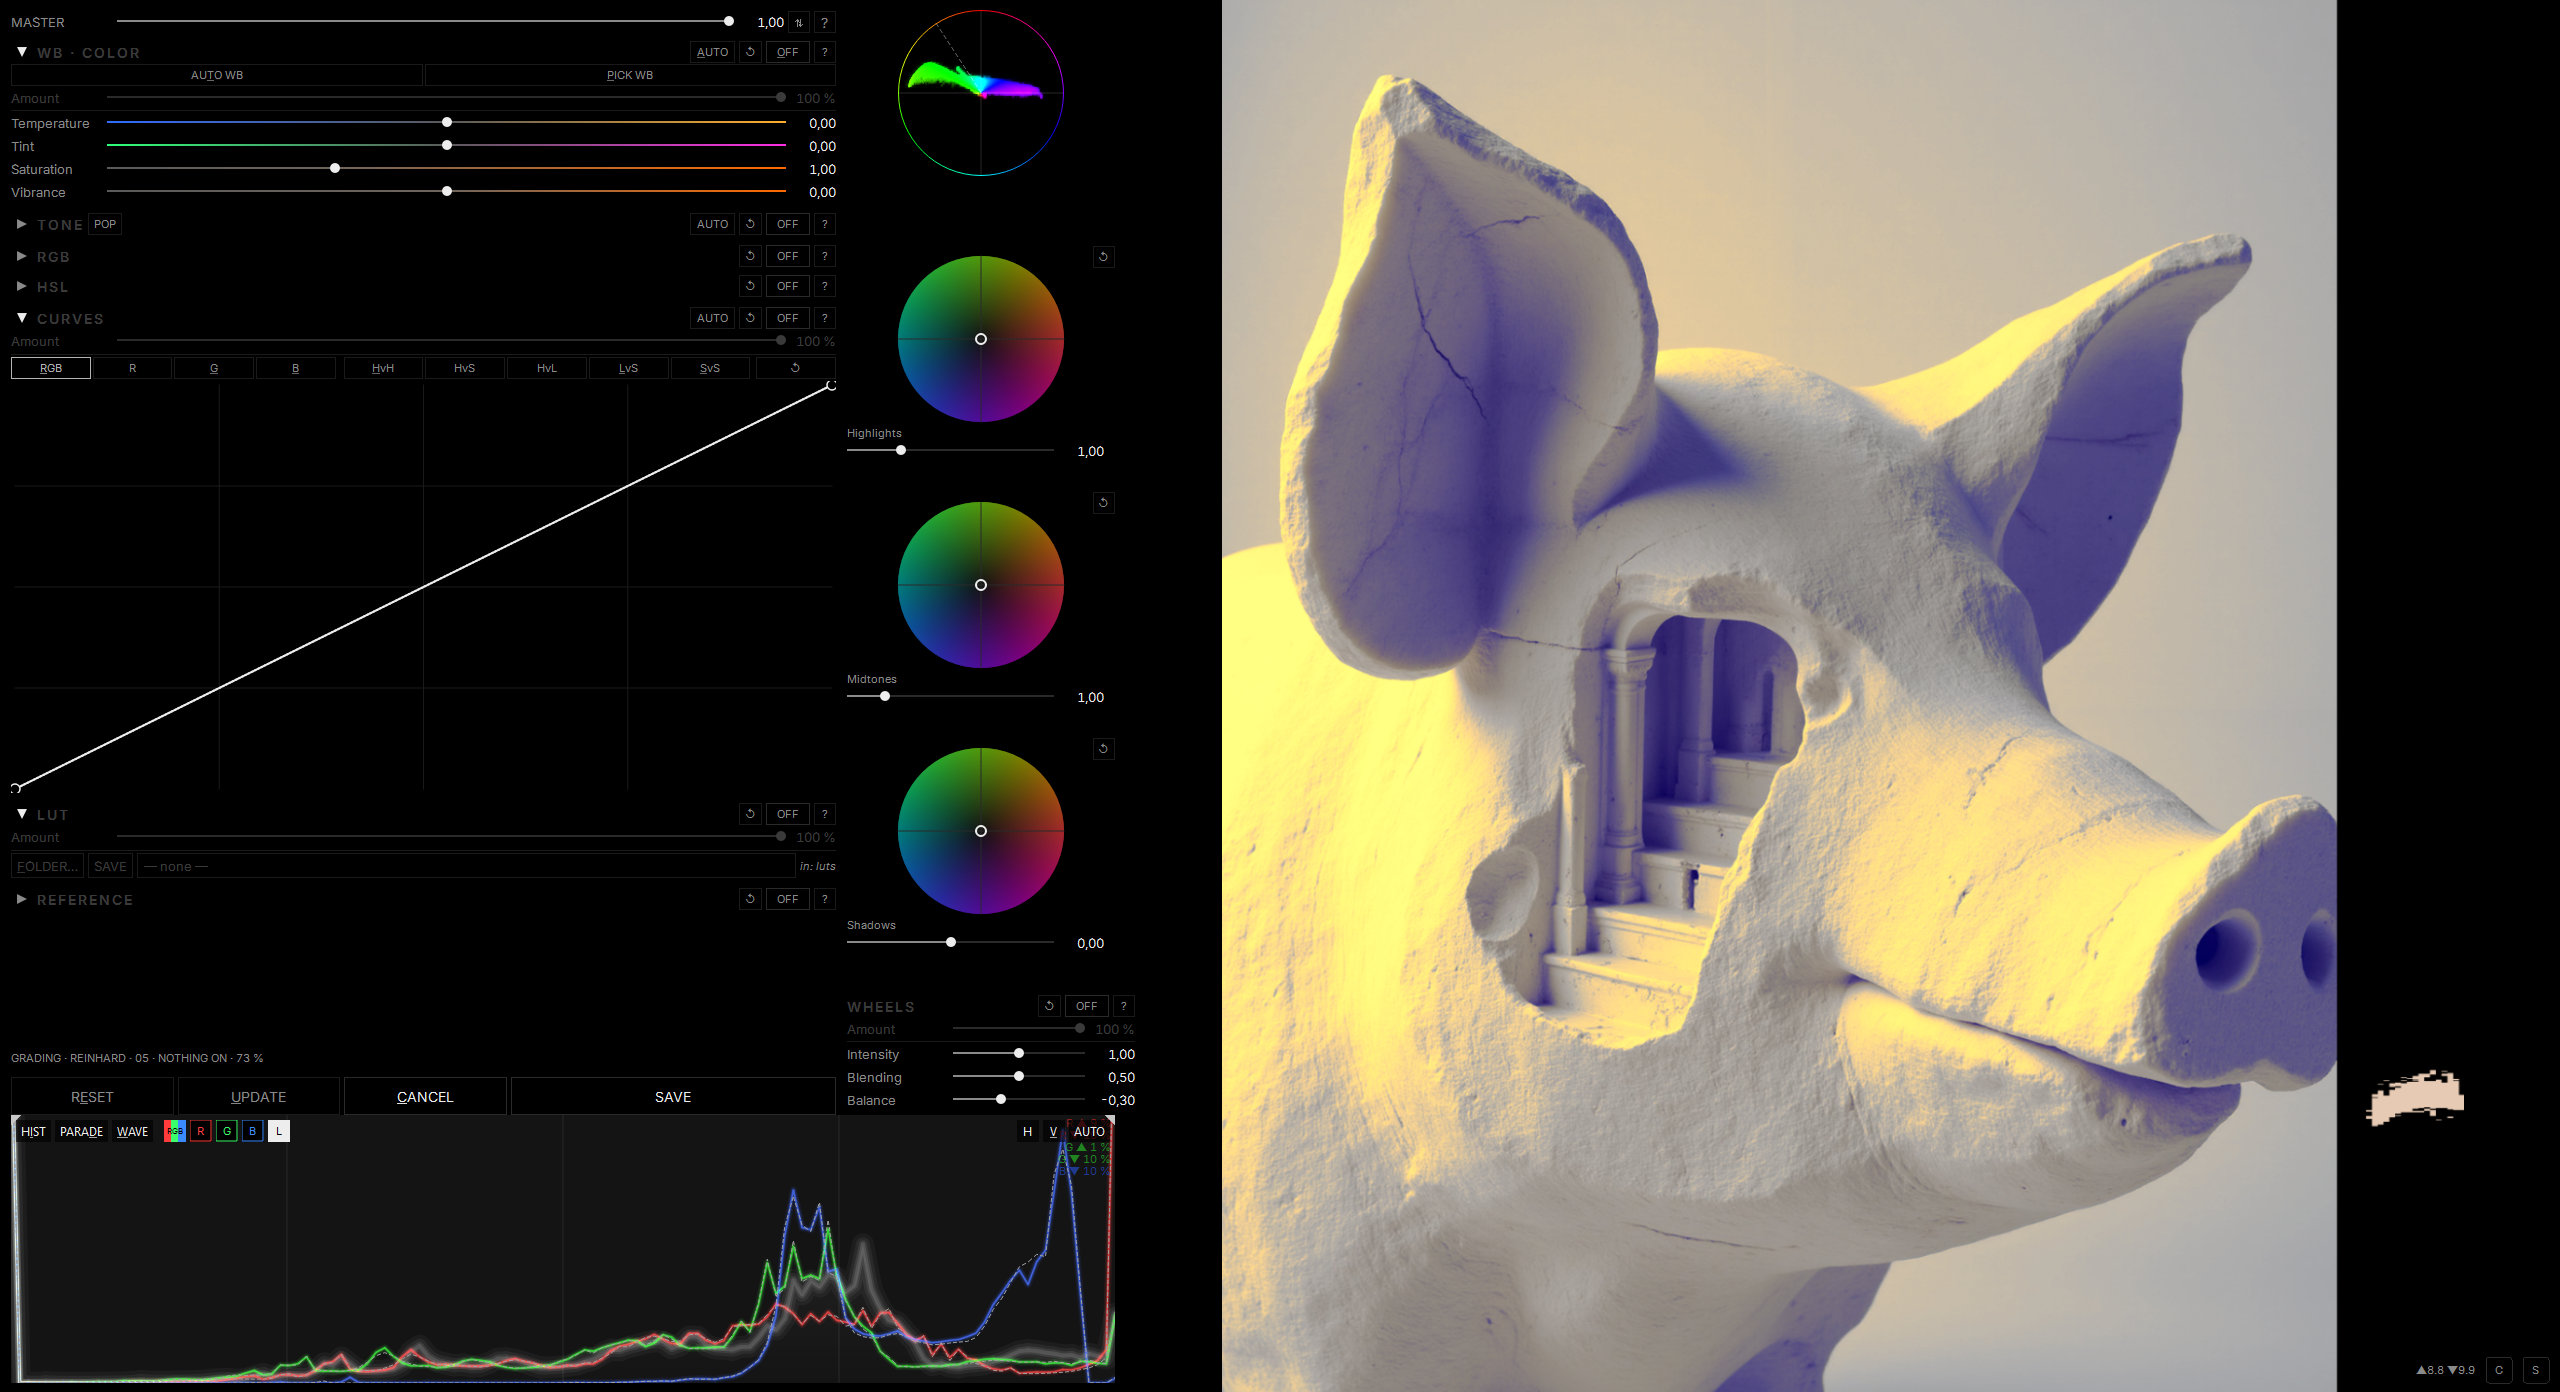
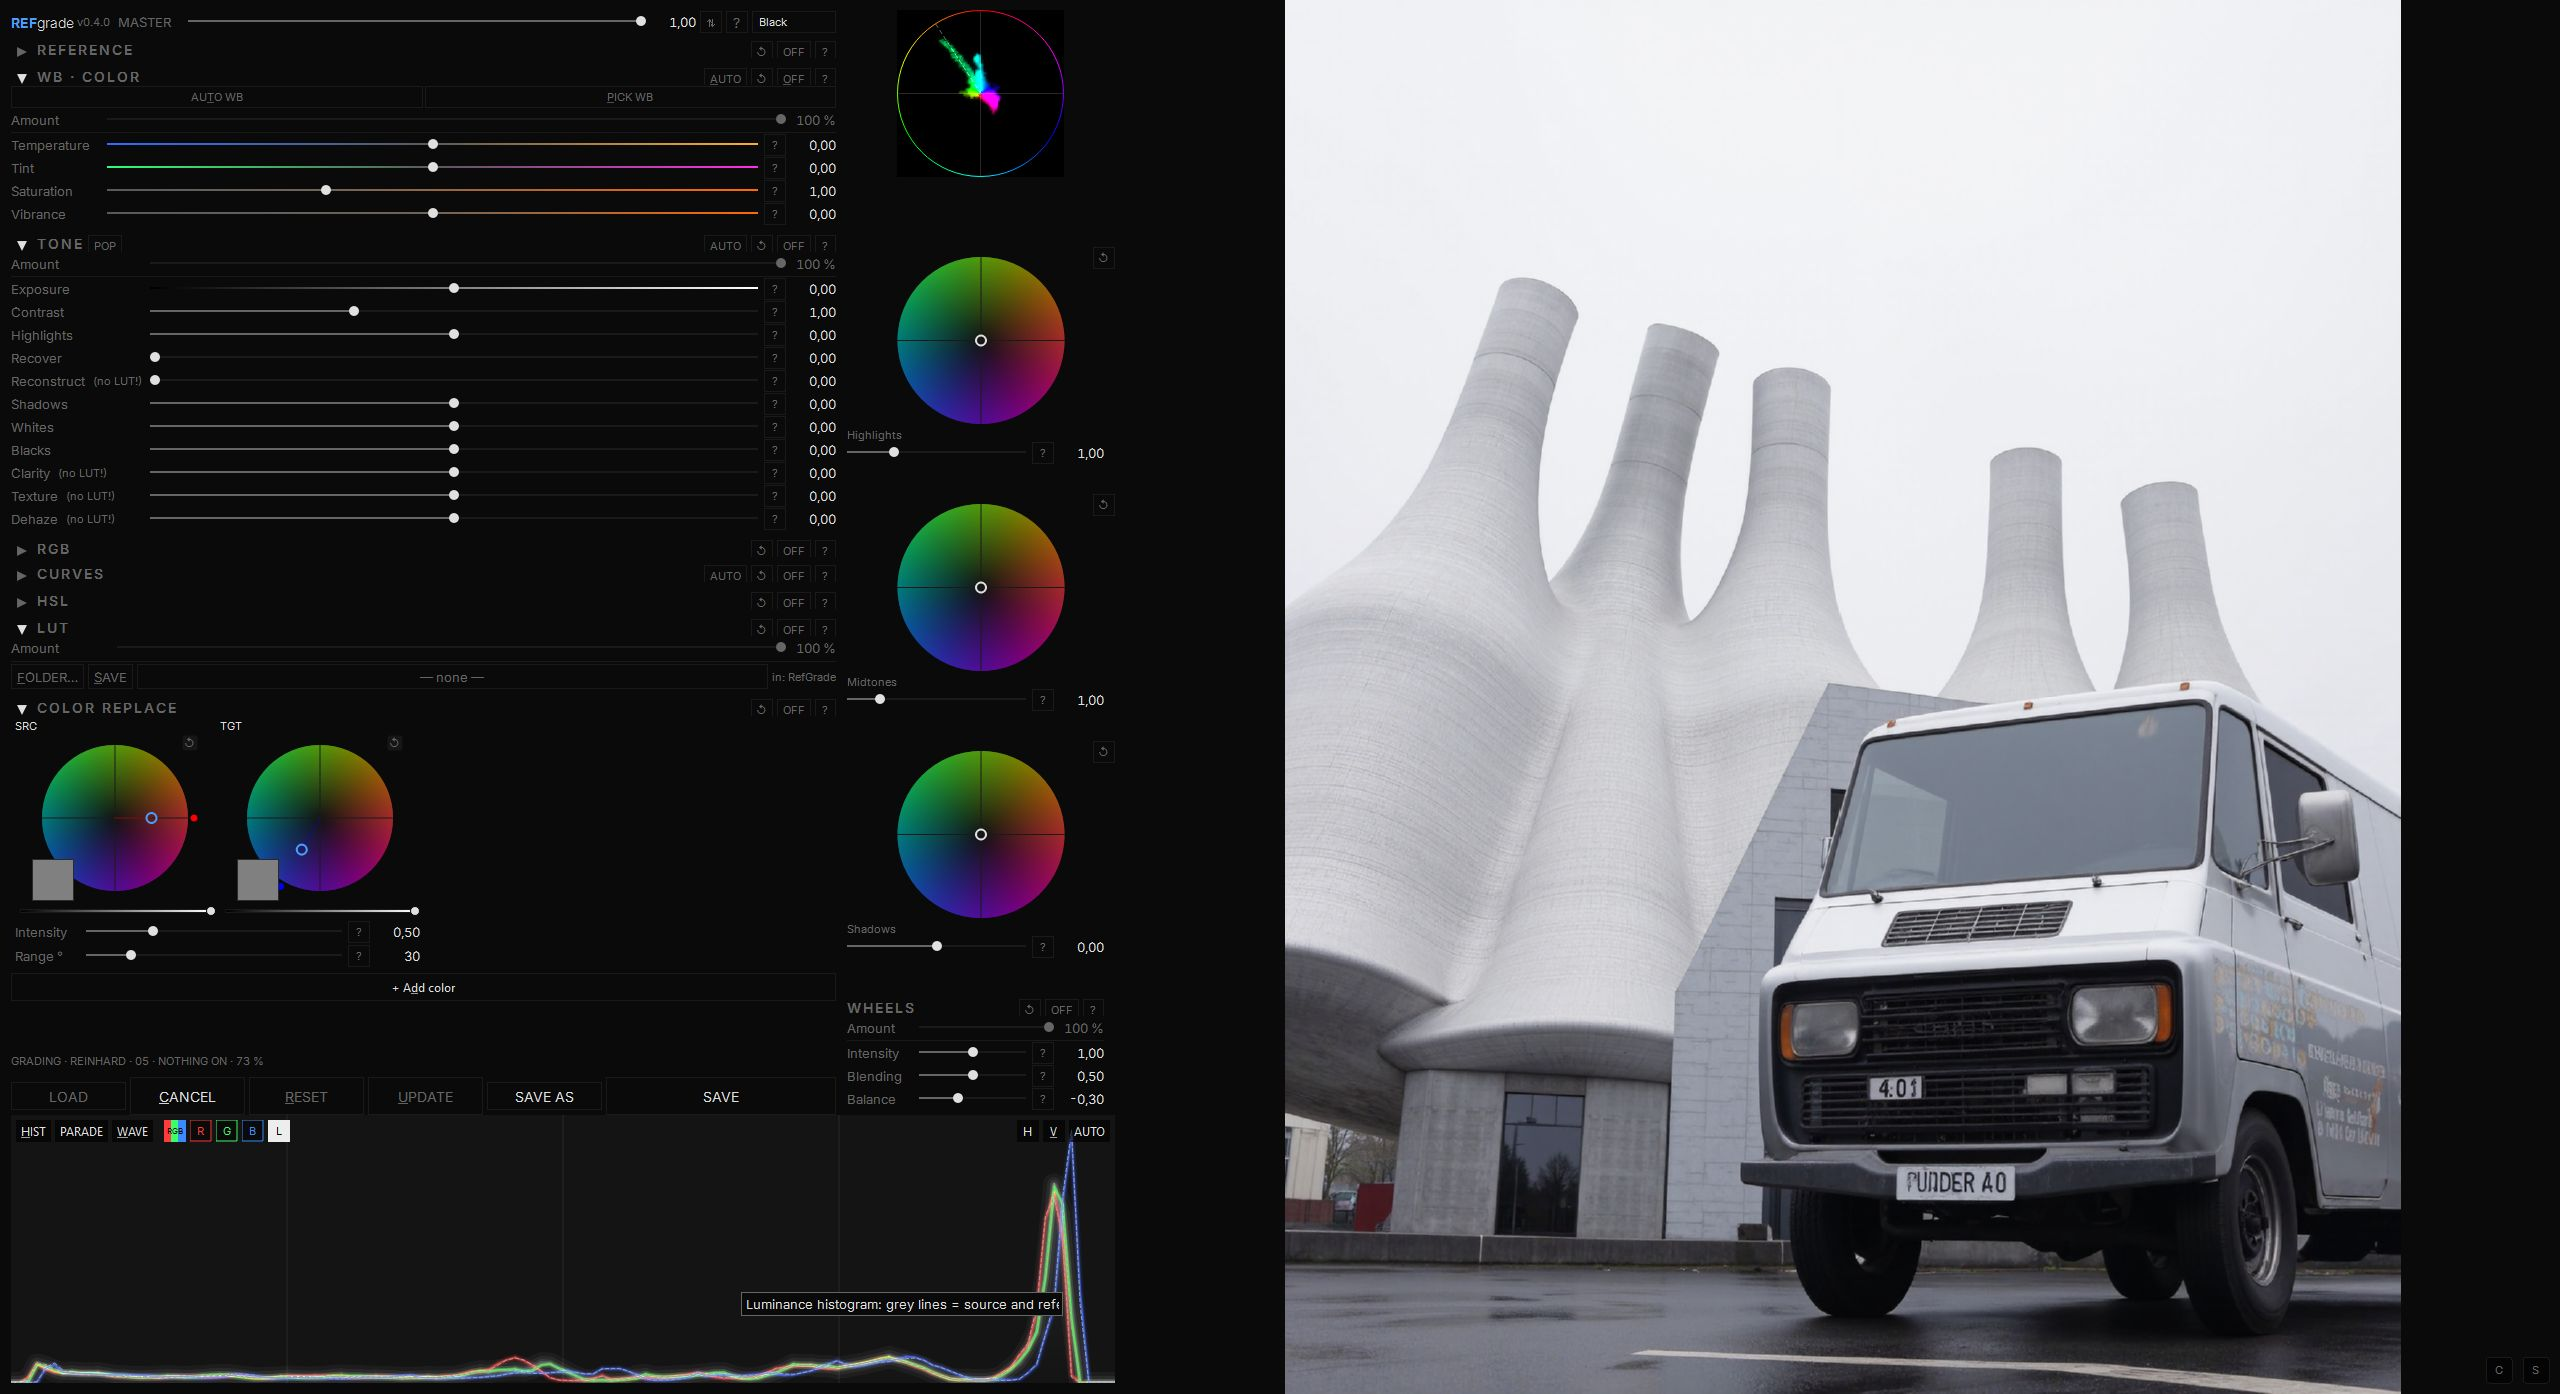
docs: rewrite README (grading-tool focus, colour replace feature), update screenshot

diff --git a/README.md b/README.md
@@ -1,18 +1,46 @@
-# REFgrade — Colour Grading by Reference (Krita plugin · standalone app)
+# REFgrade — Colour Grading (Krita plugin · standalone app)
 
 > **Hobby project — not bug-free.** Tested only on Windows 11 with Krita 6.0.4 (beta) at
 > 2560×1440. Expect rough edges, crashes, and things that simply don't work yet.
 > If you hit a problem, please file an issue on GitHub — bug reports, crash logs and
 > "this button does nothing" are all equally welcome.
 
-REFgrade transfers the light and colour mood of one or more reference images onto your image and
-lets you fine-tune the result with grading controls. It runs as a **Krita plugin** (the result
-becomes a new layer) and as a **standalone app** without Krita. The grading can also be exported as a
-3D LUT (`.cube`).
+REFgrade is a colour grading tool for photographs and digital paintings. It runs as a
+**Krita plugin** (the result becomes a new layer) and as a **standalone app** without
+Krita, and the whole grading can be exported as a 3D LUT (`.cube`).
 
-<a href="docs/screenshot.jpg"><img src="docs/screenshot.jpg" width="100%" alt="REFgrade dialog: grading controls, colour wheels and scopes beside the graded image"></a>
+<a href="docs/screenshot.jpg"><img src="docs/screenshot.jpg" width="100%" alt="REFgrade dialog: grading sections, colour wheels and scopes beside the graded image"></a>
 
 Current version: see `plugin/ref_grade/version.py`.
+
+## Features
+
+- **Reference transfer:** load up to four reference images and transfer their light and
+  colour mood — **Reinhard** (robust default), **MKL** (stronger), **Zonal** (shadows,
+  midtones and highlights matched separately), or **PAIR** (learns a LUT from a
+  before/after pair). **FIT** auto-sets the sliders to the reference.
+- **TONE:** Exposure, Contrast, Highlights, Shadows, Whites, Blacks, Clarity, Texture and
+  Dehaze — plus **Recover** (soft highlight rolloff) and **Reconstruct** (partially
+  rebuilds clipped channels) for blown highlights. **POP** applies a preset recipe.
+- **WB · COLOR:** Temperature, Tint, Saturation, Vibrance, with **AUTO WB** and
+  **PICK WB** (pick a point that should be neutral).
+- **RGB:** Gamma / Offset / Gain for Master, Red, Green and Blue, with zone control
+  (shadows / midtones / highlights).
+- **CURVES:** the RGB curve plus five hue curves (HvH, HvS, HvL, LvS, SvS).
+- **WHEELS:** Lift / Gamma / Gain wheels with Balance, Blending and Intensity.
+- **HSL:** six colour bands × Hue / Sat / Light, Lightroom-style.
+- **COLOR REPLACE:** pick a colour with the pipette and replace it — up to eight
+  instances at once, each with its own HSL-distance mask (Range), Intensity and source /
+  target pipettes.
+- **LUT:** load `.cube` files from any folder; export the current grading as `.cube`
+  (Clarity, Texture, Dehaze and Reconstruct are not part of a LUT).
+- **Chapters:** every section is a chapter — switch it on/off, weight it (Amount),
+  **SOLO** it, reset it, and reorder the chain by drag & drop.
+- **Scopes:** Histogram, Parade, Waveform, Vectorscope.
+- **A "?" help button at every slider.**
+- **Colour schemes:** Black, Dark Grey, Light Grey, White.
+
+Exported `.cube` files go to the folder you choose in the file dialog.
 
 ## Installation — standalone
 
@@ -67,19 +95,9 @@ Folder**, usually `%APPDATA%\krita`). To free the disk space, delete the runtime
 - **CANCEL** closes the image. `Esc` does not close it.
 
 In Krita: load references into the slots, choose a method (Reinhard / MKL / Zonal / Pair), press
-**FIT** to auto-match (not for Pair, which learns the LUT from a before/after pair), adjust, and press
-**OK** to apply as a new layer. **SOLO** isolates a section; **CANCEL** closes without applying.
-
-## Features
-
-- **Sections:** REFERENCE, WB · COLOR, TONE (including **Recover** and **Reconstruct** for blown
-  highlights), RGB, CURVES, WHEELS (Lift / Gamma / Gain), HSL, LUT (load `.cube` files, export the
-  grading as `.cube`), COLOR REPLACE (several instances, HSL-distance mask).
-- A **"?"** help button at every slider.
-- **Colour schemes:** Black, Dark Grey, Light Grey, White.
-- **Scopes:** Histogram, Parade, Waveform, Vectorscope.
-
-Exported `.cube` files go to the folder you choose in the file dialog.
+**FIT** to auto-match (not for Pair, which learns the LUT from a before/after pair), adjust, and
+press **SAVE** to apply the grading as a new layer above the active one. **SOLO** (in a section
+header) isolates that section; **CANCEL** closes without applying.
 
 ## System requirements
 
